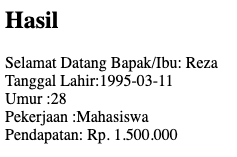
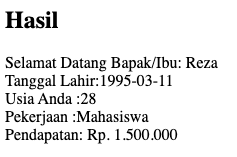
updating files

Changed region(s): [[0.0591, 0.586, 0.4135, 0.6624]]

diff --git a/Praktikum2.php b/Praktikum2.php
@@ -29,7 +29,7 @@
         echo '<h2>Hasil</h2>';
         echo 'Selamat Datang Bapak/Ibu: ' . $_POST['nama'] . '<br>';
         echo 'Tanggal Lahir:' . $_POST["tanggal"] . '<br>';
-        echo 'Umur :' . date_diff(date_create($_POST["tanggal"]), date_create('today'))->y . "<br>";
+        echo 'Usia Anda :' . date_diff(date_create($_POST["tanggal"]), date_create('today'))->y . "<br>";
         echo 'Pekerjaan :' . $_POST["pekerjaan"] . '<br>';
         if ($_POST["pekerjaan"] == "Mahasiswa") {
             echo 'Pendapatan: Rp. 1.500.000 <br>';
